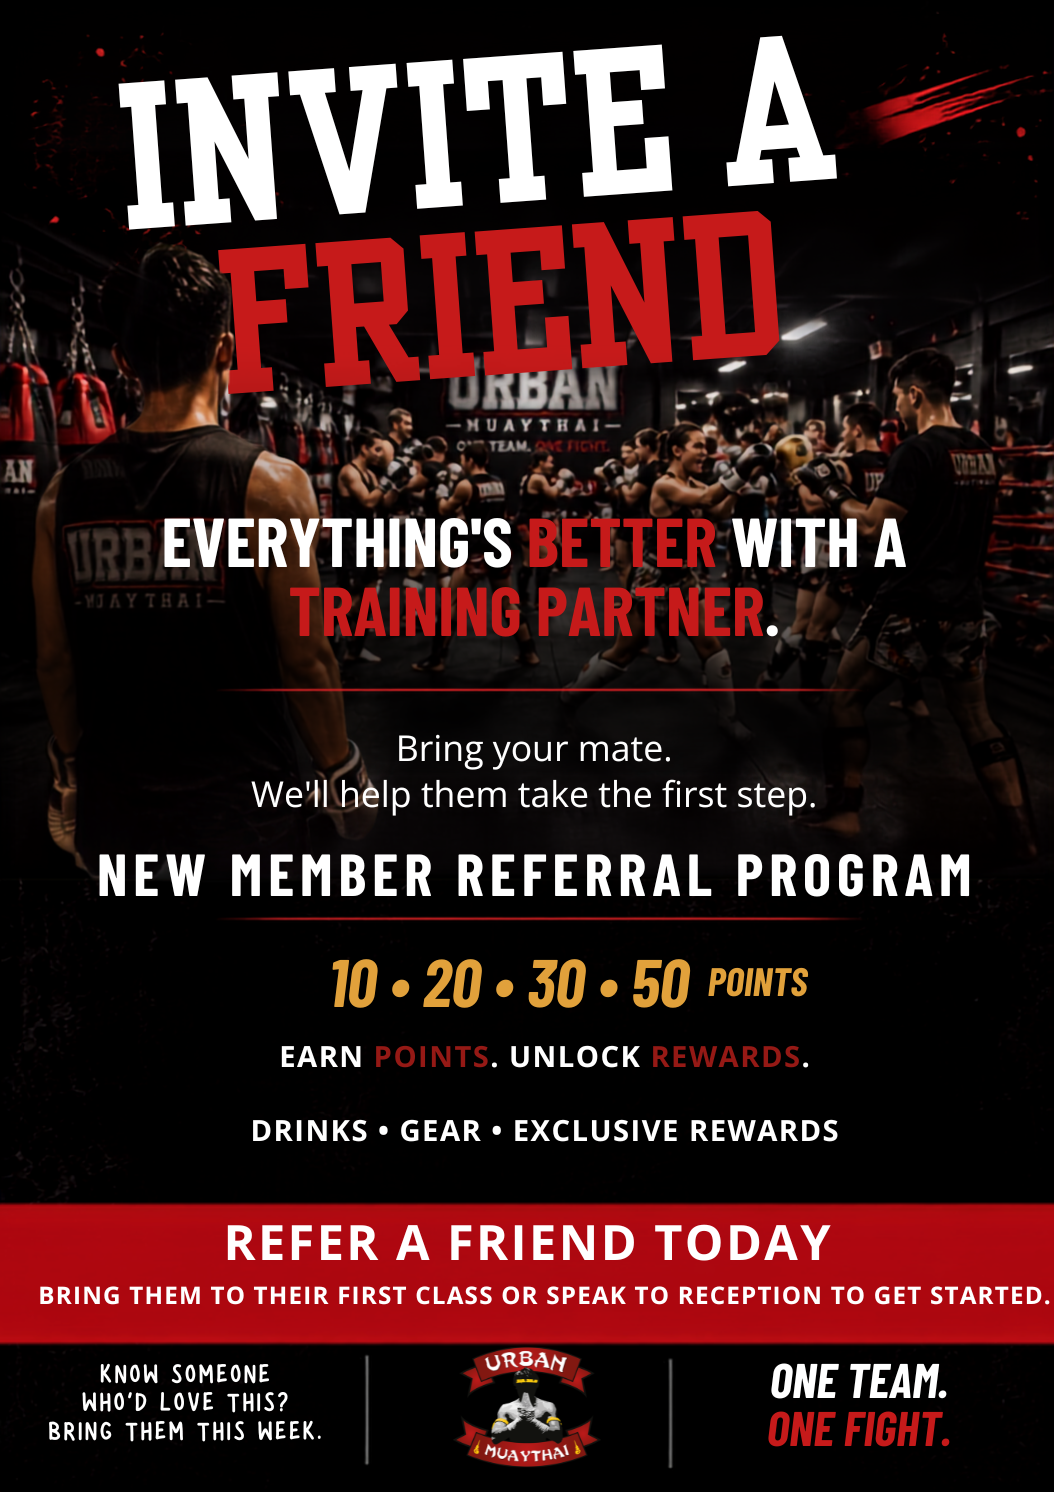
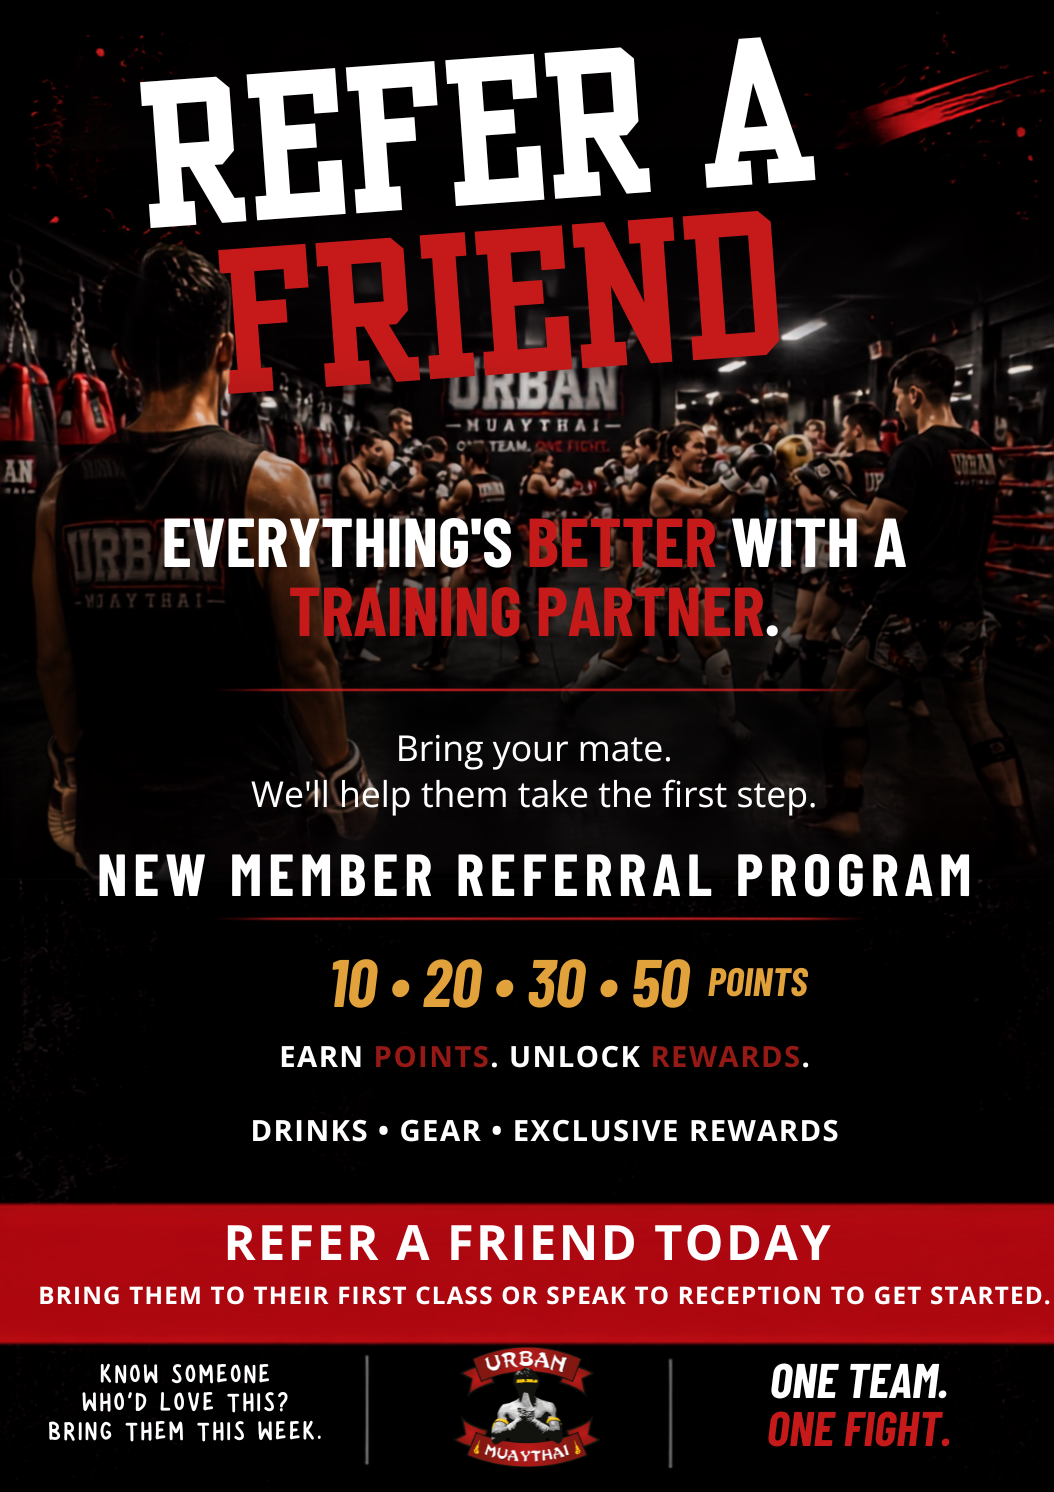
Update referral program and December events

Changed region(s): [[0.1214, 0.0308, 0.6376, 0.1542], [0.6679, 0.0, 0.7894, 0.1233]]

diff --git a/index.html b/index.html
@@ -385,7 +385,6 @@
           <div class="timeline-month-label">November</div>
           <div class="timeline-list">
             <div class="timeline-event fight"><span class="timeline-event-date">Sat 14 Nov</span><span class="timeline-event-title">On the Rise — Urban Muaythai Fight Show</span><span class="event-tag tag-fight">Fight Show</span></div>
-            <div class="timeline-event flagship"><span class="timeline-event-date">Sat 28 Nov</span><span class="timeline-event-title">Black &amp; Purple Gradings</span><span class="event-tag tag-flagship">Grading</span></div>
           </div>
         </div>
 
@@ -393,7 +392,7 @@
           <div class="timeline-month-label">December</div>
           <div class="timeline-list">
             <div class="timeline-event"><span class="timeline-event-date">1 – 12 Dec</span><span class="timeline-event-title">12 Days of Christmas Sale</span><span class="event-tag tag-promo">Promo</span></div>
-            <div class="timeline-event flagship"><span class="timeline-event-date">Tue 15 Dec</span><span class="timeline-event-title">Black Tie Gala Ball</span><span class="event-tag tag-flagship">Flagship</span><span class="timeline-event-note">Our biggest night of the year.</span></div>
+            <div class="timeline-event flagship"><span class="timeline-event-date">Sat 5 Dec</span><span class="timeline-event-title">Purple &amp; Black Gradings + Gala Ball Awards Night</span><span class="event-tag tag-flagship">Flagship</span><span class="timeline-event-note">Gradings followed by our biggest awards night of the year.</span></div>
           </div>
         </div>
 
@@ -501,16 +500,16 @@
     <div class="wrap">
       <div class="referral-card">
         <figure class="referral-poster">
-          <img src="referral-program.png" alt="Urban Muaythai Invite a Friend referral program poster" width="1054" height="1492" loading="lazy">
+          <img src="referral-program.png" alt="Urban Muaythai Refer a Friend member referral program poster" width="1054" height="1492" loading="lazy">
         </figure>
         <div class="referral-copy">
-          <div class="referral-kicker">Members · Referral Program</div>
-          <h2 id="referral-title">Bring a mate.<br>Earn rewards.</h2>
-          <p class="referral-intro">Everything's better with a training partner. Invite someone you know to take their first step at Urban Muaythai.</p>
-          <p>Current members earn referral points when a friend joins through our 28 Days Kickstarter Program. Build your points and unlock member rewards including drinks, gear and exclusive extras.</p>
+          <div class="referral-kicker">Members · Refer a Friend</div>
+          <h2 id="referral-title">Refer a friend.<br>Earn rewards.</h2>
+          <p class="referral-intro">Everything's better with a training partner. Refer a friend and help them take their first step at Urban Muaythai.</p>
+          <p>Current Urban Muaythai members earn referral points when a friend joins and pays for our 28 Days Kickstarter Program. Build your points and unlock member rewards including drinks, gear and exclusive extras.</p>
           <div class="referral-rule"><strong>How a referral qualifies:</strong> your friend must sign up and pay for the 28 Days Kickstarter Program. Once their enrolment is confirmed, your referral points will be added.</div>
-          <p>Bring your friend to their first class or speak with the reception team so we can connect the referral to your membership.</p>
-          <div class="referral-cta">Ask at reception</div>
+          <p>Bring your friend to their first class or speak with reception so we can link the referral to your membership.</p>
+          <div class="referral-cta">Refer a friend at reception</div>
         </div>
       </div>
     </div>
